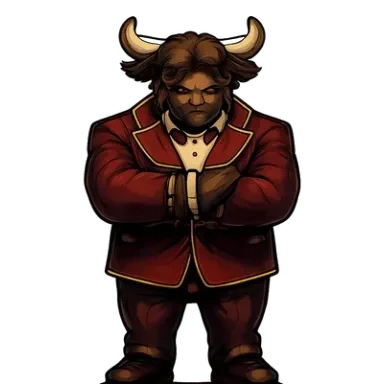
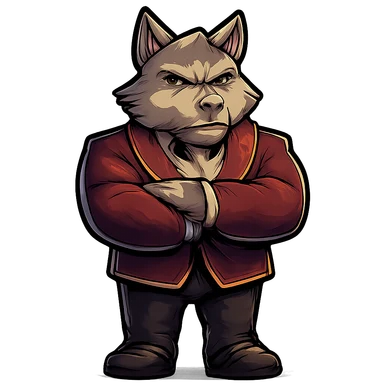
The doorman is a wolf, and everyone stands on the floor
A WOLF, not a bull. Luke: "make him a wolf like the other 2." Rolf behind the
bar and the man on the door work for the same house; a bull among wolves read as
a guest who happened to be standing there. Took two rolls — the first came back
brown and shaggy and read as a boar, because "wolf" on its own is a suggestion.
Naming the parts is what works: long tapered canine muzzle, tall pointed ears,
silver-grey fur to match Rolf. Same lesson as the horns, and as the cabinets.

HIM AND THE ROPE COME DOWN. Both sat up off the carpet — the door box bottoms
out above the floor of the painting, so `bottom: 0` inside it is not the ground.
He, his light pool and the rope all drop together, or the light stays where he
was standing.

ROLF AND SABLE, DOWN AND APART. They were 13% apart on a world this wide and
their sprites overlapped — Sable's shoulder behind Rolf's arm reads as one
two-headed person rather than two people at a bar. 20 apart now, with Rolf
sliding left rather than Sable sliding right, because the bar she is standing at
is at the right-hand end of the painting and she belongs against it. Reach goes
5 -> 8 to match the new spacing.

AND SABLE NEEDED HER OWN NUMBER. The two sprites are not padded alike: Rolf's
feet sit exactly on the bottom edge of his canvas, Sable has 4% of empty rows
under hers — which came from shrinking her earlier to clear the sprite-edge
gate. Measured rather than guessed. A single `bottom` for both would stand one
[…]

diff --git a/src/app/globals.css b/src/app/globals.css
@@ -22670,7 +22670,7 @@ body.cas-seated .social-fab { display: none; }
    LIT BY THE ROOM HE IS IN. The lounge is all warm brass and lamplight and he was rendered flat, which
    made him look pasted on. A warm pool at his feet (the same trick every cabinet uses) plus a small lift
    in brightness and warmth ties him to the light in the picture. */
-.cas-bouncer { position: absolute; left: -2%; bottom: 0; z-index: 5; pointer-events: none;
+.cas-bouncer { position: absolute; left: -2%; bottom: -13%; z-index: 5; pointer-events: none;
     width: calc(var(--room) * 0.46); height: auto; object-fit: contain;
     filter: drop-shadow(0 8px 14px rgba(0,0,0,0.62))
         drop-shadow(0 0 16px rgba(255,196,104,0.28))
@@ -22685,7 +22685,7 @@ body.cas-seated .social-fab { display: none; }
 
 /* The light he is standing in, on the carpet. Same pseudo-element the cabinets use, same reason: a lit
    figure with no pool under it is a cutout on a photograph. */
-.cas-bouncer-pool { position: absolute; z-index: 4; left: 6%; bottom: -2%;
+.cas-bouncer-pool { position: absolute; z-index: 4; left: 6%; bottom: -14%;
     width: calc(var(--room) * 0.34); height: calc(var(--room) * 0.07);
     transform: translateX(-50%); pointer-events: none; mix-blend-mode: screen;
     background: radial-gradient(50% 50% at 50% 50%, rgba(255,196,104,0.34), transparent 72%); }
@@ -22711,7 +22711,7 @@ body.cas-seated .social-fab { display: none; }
     .cas-bouncer { transition: none; animation: none; }
 }
 
-.cas-viprope { position: absolute; z-index: 4; left: 50%; bottom: -6%; width: 106%; height: auto;
+.cas-viprope { position: absolute; z-index: 4; left: 50%; bottom: -14%; width: 106%; height: auto;
     transform: translateX(-50%); display: block;
     filter: drop-shadow(0 4px 8px rgba(0,0,0,.6)); }
 
@@ -22769,10 +22769,20 @@ body.cas-seated .social-fab { display: none; }
    Standing ON the floor, full length, a little taller than the hero because they are the adults behind the
    counter. They were 0.34 of the room and drawn as torso-only crops, which is how they ended up reading as
    two enormous floating busts — see the note in VipLounge. */
-.vip-npc { position: absolute; bottom: 4%; transform: translateX(-50%); z-index: 3;
+/* ── DOWN ONTO THE RUG ────────────────────────────────────────────────────────────────────────────────
+   4% left them hovering. 0 puts them on the same ground line the player walks on (.vip-you, 3%), which is
+   where two people standing in a room should be.
+
+   AND SABLE NEEDS HER OWN NUMBER, because the two sprites are not padded alike: Rolf's feet sit exactly on
+   the bottom edge of his canvas and Sable has 4% of empty rows under hers (measured, not guessed — it came
+   from shrinking her to clear the sprite-edge gate). A single `bottom` for both would stand one of them on
+   the floor and float the other by exactly that 4%. */
+.vip-npc { position: absolute; bottom: 0%; transform: translateX(-50%); z-index: 3;
     width: calc(var(--vroom) * 0.34); display: grid; justify-items: center; gap: 1px;
     -webkit-appearance: none; appearance: none; border: 0; background: none; padding: 0;
     font: inherit; color: inherit; cursor: pointer; }
+/* Cancels the empty band under her figure so she stands where Rolf stands. */
+.vip-npc.is-sable { bottom: -4%; }
 .vip-npc img { display: block; width: 100%; height: auto;
     filter: drop-shadow(0 8px 12px rgba(0,0,0,.65)); }
 .vip-npc b { font-size: 9.5px; font-weight: 900; letter-spacing: .1em; text-transform: uppercase;

diff --git a/src/components/casino/VipLounge.js b/src/components/casino/VipLounge.js
@@ -55,11 +55,16 @@ const POST = async (body) => {
 
 // Where the two you can talk to stand, across the world. The bar is at the right-hand end of the painting, so
 // they stand at it and you walk the room to reach them.
-const BARTENDER_X = 74;
+//
+// PUSHED APART. They were 13 apart and their sprites overlapped at that distance — Sable's shoulder sat behind
+// Rolf's arm, which reads as one two-headed person rather than two people at a bar. 20 clears them both, and
+// Rolf slides left rather than Sable sliding right because the bar she is standing at is at the right-hand end
+// of the painting and she belongs against it.
+const BARTENDER_X = 67;
 const VENDOR_X = 87;
-// Close enough to talk. The floor uses 5 against cabinets spaced 9; these two are 13 apart, so 6 keeps the
-// same feel without their reaches touching.
-const REACH = 6;
+// Close enough to talk. The floor uses 5 against cabinets spaced 9; these two are 20 apart now, so 8 keeps a
+// generous reach without the two ranges touching (they would need to be 10 apart to overlap).
+const REACH = 8;
 
 // ── THE SAME WALK AS THE FLOOR, WHICH IS THE WRONG WALK FOR THIS ROOM ────────────────────────────────────────
 // Matching the casino floor's speed was the obvious call and it reads badly here. The floor is seven rooms
@@ -311,7 +316,7 @@ export default function VipLounge({ state, chips, me, onClose, onChips }) {
                         {/* The two you can talk to, standing at the bar. Buttons, because everything you can
                             interact with in this building is a button with its own hit area. */}
                         <button type="button"
-                            className={`vip-npc${near === "bartender" ? " is-near" : ""}`}
+                            className={`vip-npc is-rolf${near === "bartender" ? " is-near" : ""}`}
                             style={{ left: `${BARTENDER_X}%` }}
                             aria-label="Rolf, the bartender"
                             onClick={() => { if (draggedJustNow()) return; walkTo(BARTENDER_X); }}>
@@ -320,7 +325,7 @@ export default function VipLounge({ state, chips, me, onClose, onChips }) {
                             <b>Rolf</b>
                         </button>
                         <button type="button"
-                            className={`vip-npc${near === "vendor" ? " is-near" : ""}`}
+                            className={`vip-npc is-sable${near === "vendor" ? " is-near" : ""}`}
                             style={{ left: `${VENDOR_X}%` }}
                             aria-label="Sable, the vendor"
                             onClick={() => { if (draggedJustNow()) return; walkTo(VENDOR_X); }}>
